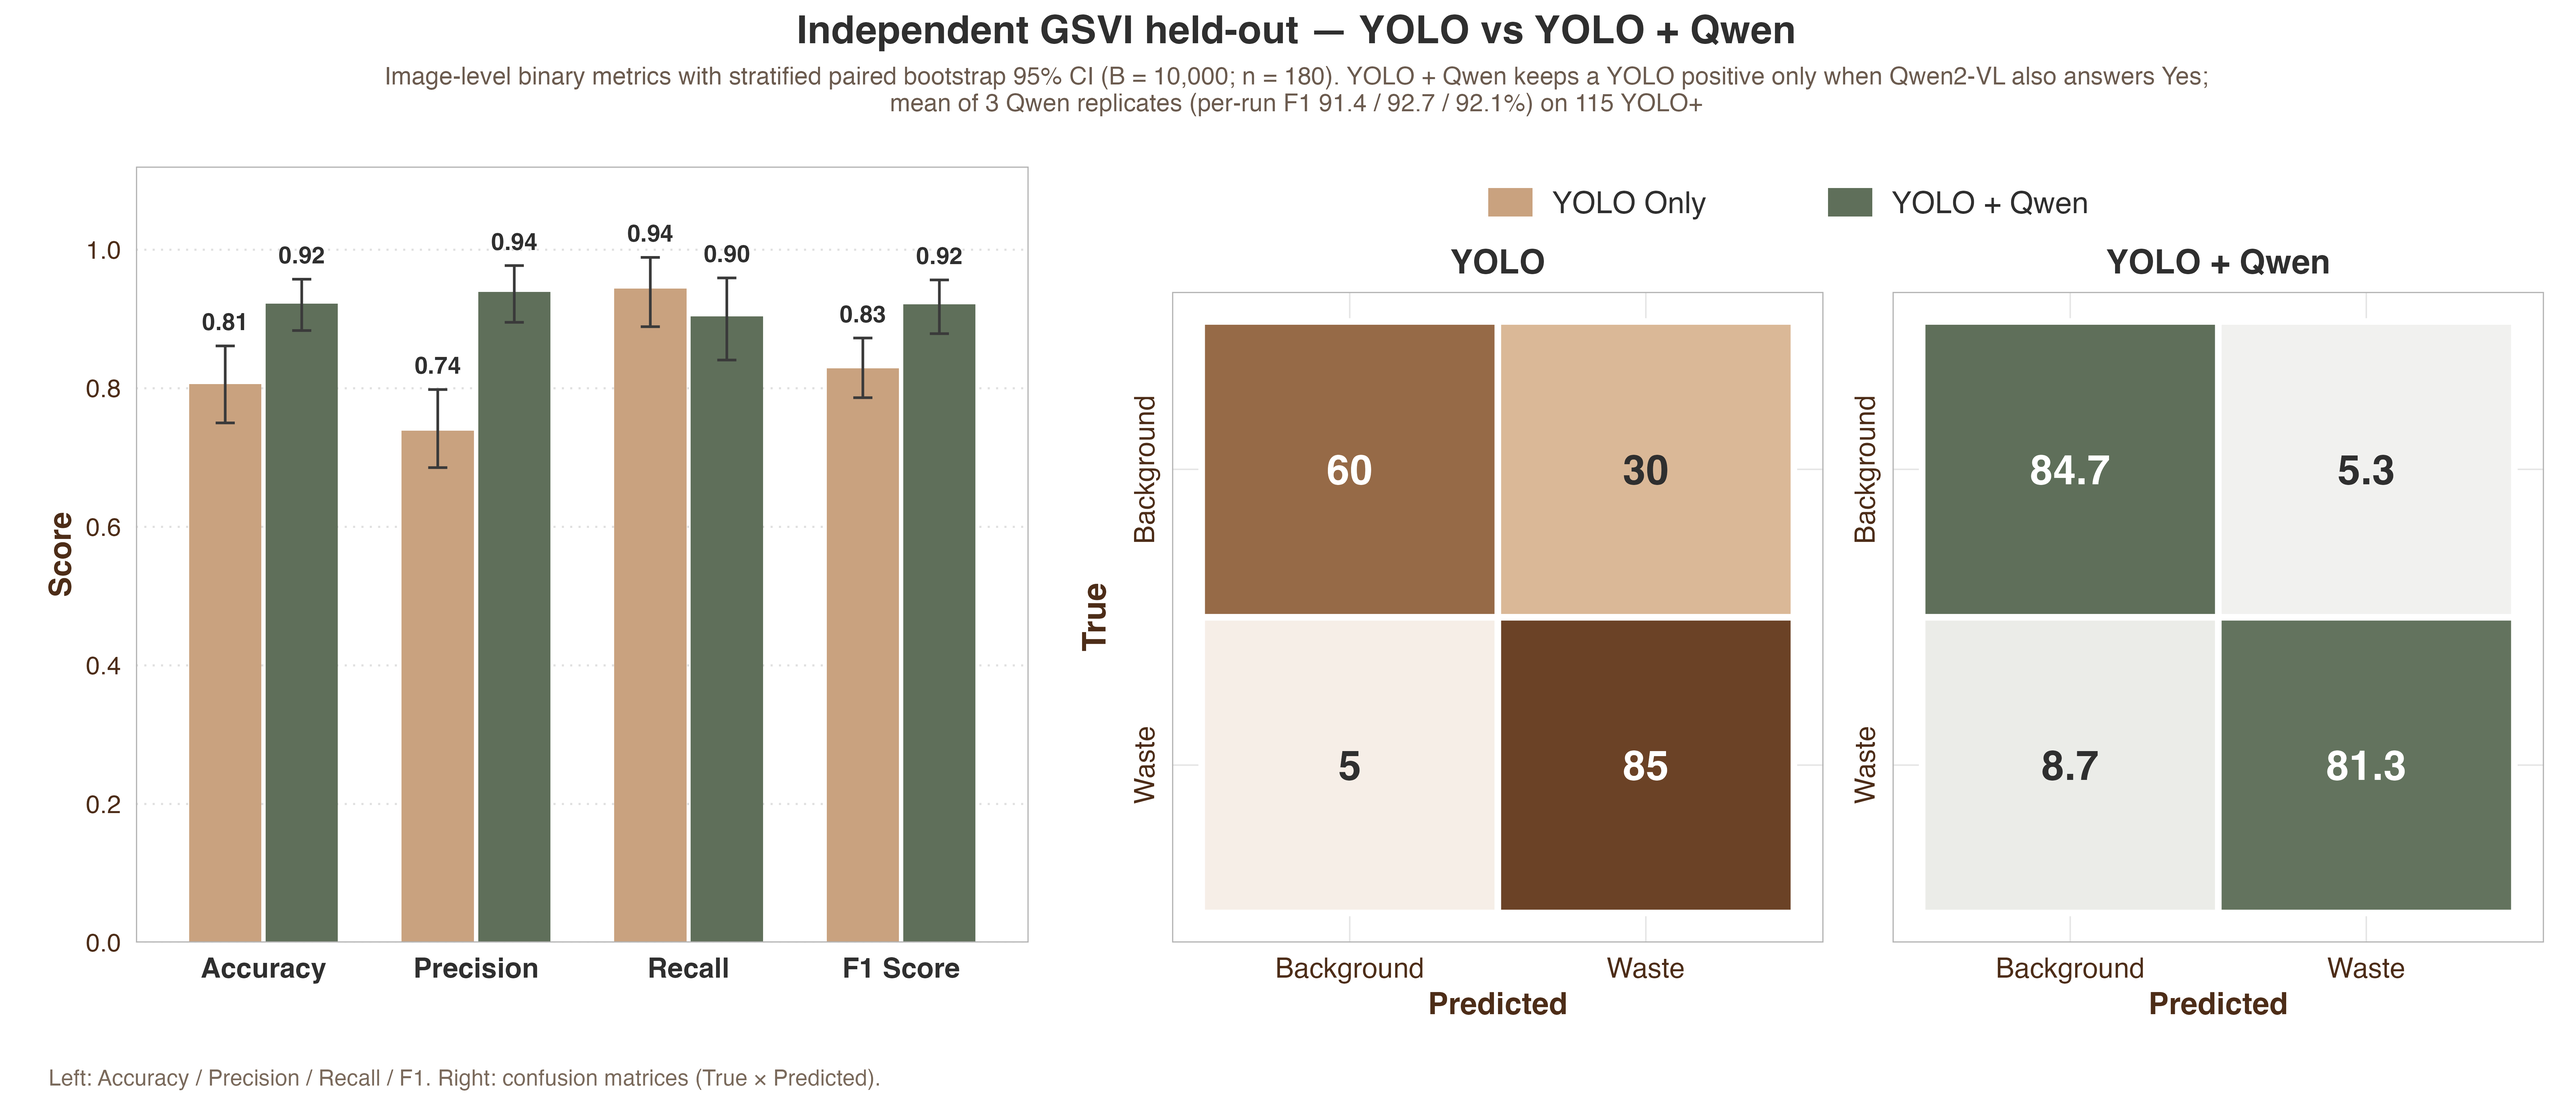
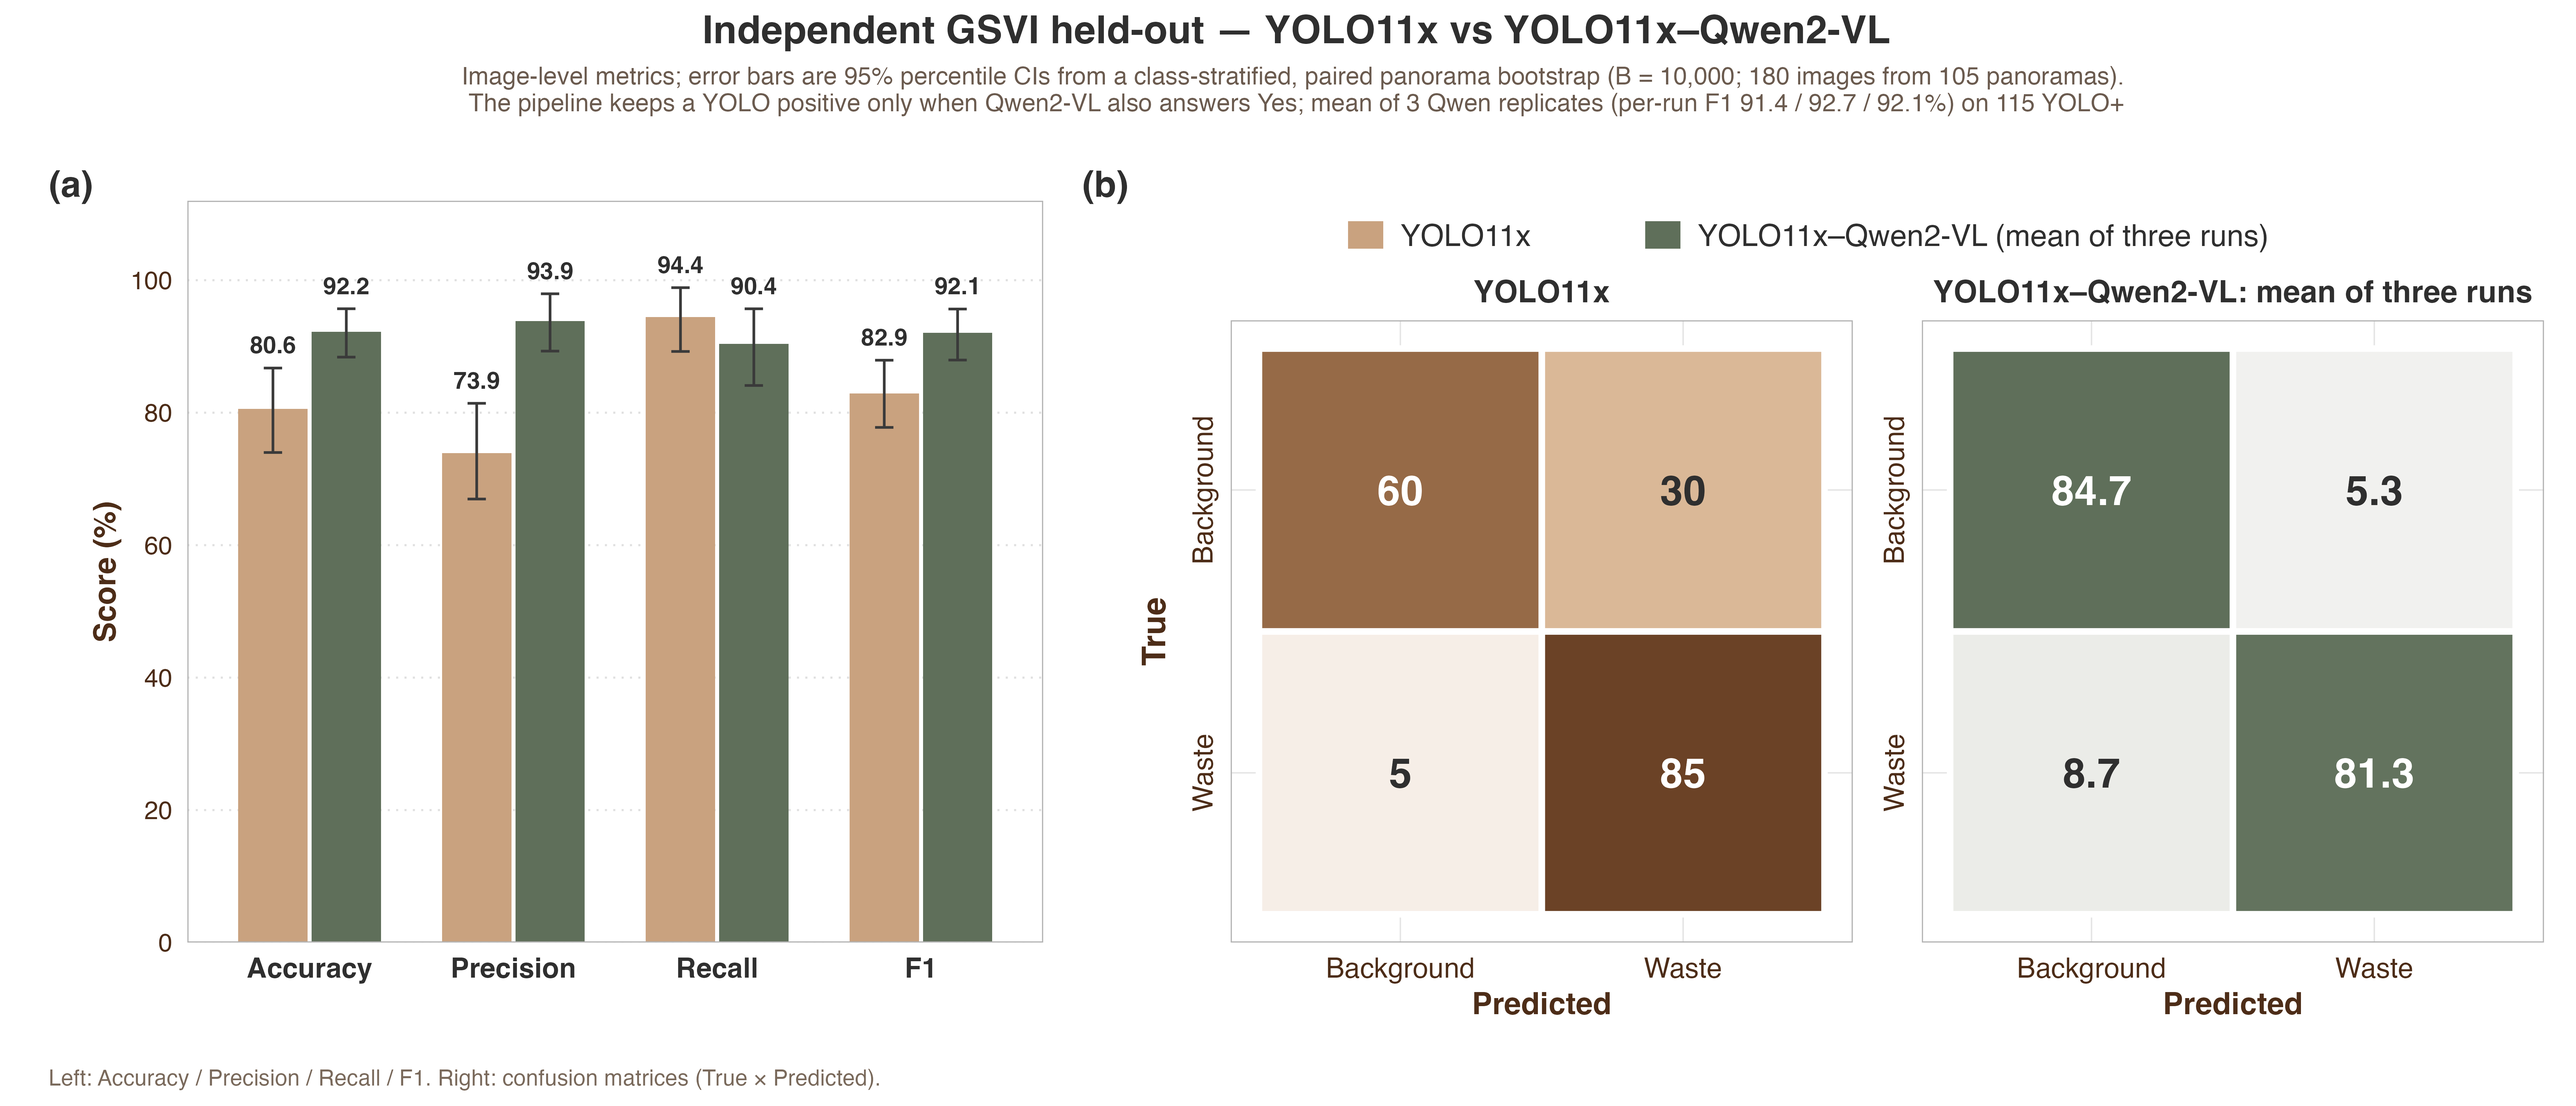
Bootstrap held-out CIs by panorama and align Figure 3 with Table S2
The 180 held-out images come from 105 panoramas, and 75 of those
contribute two views, so images are not independent units. The bootstrap
now resamples panoramas with replacement within class (55 waste,
50 background), and every view of a drawn panorama comes with it. It is
implemented as per-image resampling weights and stays paired across both
stages and all Qwen runs. Point estimates are unchanged; intervals widen
slightly (e.g. YOLO precision 67.0-81.4%, pipeline precision 89.3-98.0%;
recall difference -8.3 to -0.7 pp). The detail table gains unrounded
metric columns and n_panoramas.

Figure 3 now plots the unrounded estimates with the exact asymmetric CI
limits, using one-decimal percent labels and (a)/(b) tags. It names the
models YOLO11x and YOLO11x-Qwen2-VL (mean of three runs), and the
pipeline confusion matrix is titled as the mean of three runs. The
subtitles describe the panorama bootstrap. README numbers are updated
to match.

diff --git a/3_waste_identification/1_heldout_metrics.py b/3_waste_identification/1_heldout_metrics.py
@@ -13,12 +13,13 @@ Headline results (sc_100pct, the full detector):
                       each metric is computed per Qwen replicate and averaged
                       (a single-pass scenario is its one run)
 
-95% intervals: one stratified, paired percentile bootstrap over the test images
-(B = 10,000, fixed seed; waste and background images resampled within class).
-Each resample keeps an image's ground truth, YOLO prediction and every cascade
-run together, and cascade metrics are re-averaged over runs within it. The
-intervals describe image-sampling uncertainty conditional on the observed runs;
-the run range is reported separately. Paired cascade-minus-YOLO differences
+95% intervals: one paired percentile bootstrap over panoramas, the units the
+held-out set was drawn by (B = 10,000, fixed seed; waste and background
+panoramas resampled within class, each bringing all its views). Each resample
+keeps an image's ground truth, YOLO prediction and every cascade run together,
+and cascade metrics are re-averaged over runs within it. The intervals describe
+sampling uncertainty conditional on the observed runs; the run range is
+reported separately. Paired cascade-minus-YOLO differences
 come from the same replicates.
 
 Plus the repeated-inference stability of those replicates, and a sensitivity
@@ -70,7 +71,7 @@ HEADLINE_SCENARIO = "sc_100pct"
 METRICS = ("accuracy", "precision", "recall", "f1")
 BOOT_B = 10_000
 BOOT_SEED = 20261123
-CI_METHOD = f"stratified_paired_percentile_bootstrap_B{BOOT_B}"
+CI_METHOD = f"class_stratified_panorama_paired_percentile_bootstrap_B{BOOT_B}"
 
 UUID_PREFIX = re.compile(r"^[0-9a-f]{8}-", re.I)
 SCENARIO_SHARE = re.compile(r"sc_(\d+)pct", re.I)
@@ -161,44 +162,63 @@ def metrics_from_counts(tp, fp, tn, fn) -> dict[str, np.ndarray]:
 
 
 def stage_metrics(
-    y_true: np.ndarray, preds: np.ndarray, idx: np.ndarray | None = None
+    y_true: np.ndarray, preds: np.ndarray, weights: np.ndarray | None = None
 ) -> tuple[dict[str, np.ndarray], list[dict[str, np.ndarray]]]:
     """Metrics of one stage, computed per run and then averaged over runs.
 
     preds is (n_images, n_runs): one column per run (a single column for YOLO).
-    With idx, an (n_boot, n_images) array of resampled image indices, every
-    value has one entry per bootstrap replicate; the same rows of y_true and
-    of every run are taken together, so the runs stay paired.
+    weights, an (n_boot, n_images) array of how many times each image appears
+    in each bootstrap replicate, gives one value per replicate; the same weights
+    apply to y_true and to every run, so the runs stay paired.
     Returns (run-mean metrics, per-run metrics).
     """
-    y = y_true if idx is None else y_true[idx]
+    w = np.ones(len(y_true)) if weights is None else weights
     runs = []
     for j in range(preds.shape[1]):
-        p = preds[:, j] if idx is None else preds[:, j][idx]
+        p = preds[:, j]
         runs.append(
             metrics_from_counts(
-                ((y == 1) & (p == 1)).sum(axis=-1),
-                ((y == 0) & (p == 1)).sum(axis=-1),
-                ((y == 0) & (p == 0)).sum(axis=-1),
-                ((y == 1) & (p == 0)).sum(axis=-1),
+                (w * ((y_true == 1) & (p == 1))).sum(axis=-1),
+                (w * ((y_true == 0) & (p == 1))).sum(axis=-1),
+                (w * ((y_true == 0) & (p == 0))).sum(axis=-1),
+                (w * ((y_true == 1) & (p == 0))).sum(axis=-1),
             )
         )
     mean = {m: np.mean([r[m] for r in runs], axis=0) for m in METRICS}
     return mean, runs
 
 
-def bootstrap_indices(
-    y_true: np.ndarray, n_boot: int = BOOT_B, seed: int = BOOT_SEED
+def panorama_ids(frame: pd.DataFrame) -> np.ndarray:
+    """Panorama of each image: the img_key without its trailing _<heading>."""
+    return frame["img_key"].str.rsplit("_", n=1).str[0].to_numpy()
+
+
+def bootstrap_weights(
+    y_true: np.ndarray, panoramas: np.ndarray, n_boot: int = BOOT_B, seed: int = BOOT_SEED
 ) -> np.ndarray:
-    """(n_boot, n_images) image indices resampled with replacement within each
-    class, so every replicate keeps the held-out set's waste / background counts
-    (the set is balanced by design)."""
+    """(n_boot, n_images) resampling weights from a panorama-level bootstrap.
+
+    The held-out set was drawn by panorama, and most panoramas contribute two
+    views, so panoramas, not images, are the independent units. Each replicate
+    draws panoramas with replacement within class (every panorama is all-waste
+    or all-background), keeping the number of waste and background panoramas
+    fixed; every view of a drawn panorama comes with it.
+    """
+    codes, _ = pd.factorize(panoramas)
+    n_pan = codes.max() + 1
+    pan_class = np.full(n_pan, -1)
+    for c, y in zip(codes, y_true):
+        if pan_class[c] not in (-1, y):
+            raise ValueError("A held-out panorama mixes waste and background images")
+        pan_class[c] = y
     rng = np.random.default_rng(seed)
-    parts = []
+    pan_counts = np.zeros((n_boot, n_pan))
     for cls in (1, 0):
-        members = np.flatnonzero(y_true == cls)
-        parts.append(rng.choice(members, size=(n_boot, len(members)), replace=True))
-    return np.hstack(parts)
+        members = np.flatnonzero(pan_class == cls)
+        draws = rng.choice(members, size=(n_boot, len(members)), replace=True)
+        for b in range(n_boot):
+            pan_counts[b] += np.bincount(draws[b], minlength=n_pan)
+    return pan_counts[:, codes]
 
 
 def percentile_ci(draws: np.ndarray) -> tuple[float, float]:
@@ -207,12 +227,12 @@ def percentile_ci(draws: np.ndarray) -> tuple[float, float]:
 
 
 def evaluate_stage(
-    y_true: np.ndarray, preds: np.ndarray, idx: np.ndarray
+    y_true: np.ndarray, preds: np.ndarray, weights: np.ndarray
 ) -> tuple[dict[str, float], dict[str, np.ndarray]]:
     """Point metrics (mean of per-run values), their bootstrap 95% intervals and
     the run range, plus the bootstrap draws (for paired differences)."""
     point, runs = stage_metrics(y_true, preds)
-    draws, _ = stage_metrics(y_true, preds, idx)
+    draws, _ = stage_metrics(y_true, preds, weights)
     out: dict[str, float] = {}
     for m in METRICS:
         out[m] = float(point[m])
@@ -448,6 +468,7 @@ def headline_stages(
         {
             "stage": "YOLO candidate stage",
             "y_true": y_true,
+            "panoramas": panorama_ids(frame),
             "preds": yolo.reshape(-1, 1),
             **{k: yolo_m[k] for k in ("tp", "fp", "tn", "fn")},
             "note": f"Image-level prediction, {headline} ({PREDICTIONS_NAME})",
@@ -470,6 +491,7 @@ def headline_stages(
         {
             "stage": "YOLO → Qwen",
             "y_true": y_true,
+            "panoramas": panorama_ids(frame),
             "preds": pipe_preds,
             **mean_counts(runs),
             "note": (
@@ -485,10 +507,10 @@ def write_main_heldout_tables(stages: list[dict]) -> None:
     """table_2 — display, CI, detail and paired-difference views of the headline
     comparison.
 
-    95% intervals are percentile intervals from one stratified, paired bootstrap
-    over test images (bootstrap_indices): every stage and every Qwen run is
-    scored on the same resampled images, and cascade metrics are averaged over
-    runs within each replicate. They describe image-sampling uncertainty
+    95% intervals are percentile intervals from one class-stratified, paired
+    panorama bootstrap (bootstrap_weights): every stage and every Qwen run is
+    scored on the same resampled panoramas, and cascade metrics are averaged
+    over runs within each replicate. They describe sampling uncertainty
     conditional on the observed runs, not run-to-run variation, which is
     reported separately as the run range.
     """
@@ -498,14 +520,14 @@ def write_main_heldout_tables(stages: list[dict]) -> None:
     draws_by_stage: dict[str, dict[str, np.ndarray]] = {}
     point_by_stage: dict[str, dict[str, float]] = {}
 
-    idx = bootstrap_indices(stages[0]["y_true"])
+    weights = bootstrap_weights(stages[0]["y_true"], stages[0]["panoramas"])
     n_images = len(stages[0]["y_true"])
     n_pos = int(stages[0]["y_true"].sum())
 
     for st in stages:
         if not np.array_equal(st["y_true"], stages[0]["y_true"]):
             raise ValueError("Stages must be scored on the same images in the same order")
-        ci, draws = evaluate_stage(st["y_true"], st["preds"], idx)
+        ci, draws = evaluate_stage(st["y_true"], st["preds"], weights)
         draws_by_stage[st["stage"]] = draws
         point_by_stage[st["stage"]] = ci
         detail_rows.append(
@@ -514,8 +536,10 @@ def write_main_heldout_tables(stages: list[dict]) -> None:
                 "stage": st["stage"],
                 "n_images": n_images,
                 "n_waste": n_pos,
+                "n_panoramas": int(pd.unique(stages[0]["panoramas"]).size),
                 "n_runs": int(st["preds"].shape[1]),
                 **{f"{m}_pct": round(100 * ci[m], 1) for m in METRICS},
+                **{m: ci[m] for m in METRICS},
                 "tp": round(st["tp"], 2),
                 "fp": round(st["fp"], 2),
                 "tn": round(st["tn"], 2),
@@ -567,8 +591,8 @@ def write_main_heldout_tables(stages: list[dict]) -> None:
     ci_text = ",".join(header) + "\n" + "\n".join(",".join(row) for row in ci_rows) + "\n"
 
     print(
-        "\nMain held-out comparison (Qwen = mean of per-run metrics; stratified "
-        f"paired percentile bootstrap 95% CI, B = {BOOT_B}):"
+        "\nMain held-out comparison (Qwen = mean of per-run metrics; class-stratified "
+        f"paired panorama bootstrap 95% CI, B = {BOOT_B}):"
     )
     print(pd.DataFrame(ci_rows, columns=header).to_string(index=False))
     write_csv(pd.DataFrame(display_rows), "table_2_yolo_qwen_heldout.csv")
@@ -786,7 +810,7 @@ def write_sc_sensitivity_table(
         n_fp_images = int(sum((y_true == 0) & (yolo == 1)))
         fp_csv = fp_csv_path(scenario)
 
-        idx = bootstrap_indices(y_true)
+        weights = bootstrap_weights(y_true, panorama_ids(frame))
         variants: list[tuple[str, np.ndarray, dict[str, float], str]] = [
             (
                 "YOLO only",
@@ -818,7 +842,7 @@ def write_sc_sensitivity_table(
             )
 
         for stage, stage_preds, m, note in variants:
-            ci, _ = evaluate_stage(y_true, stage_preds, idx)
+            ci, _ = evaluate_stage(y_true, stage_preds, weights)
             display_rows.append(
                 {
                     "YOLO training set": scenario_label(scenario),

diff --git a/README.md b/README.md
@@ -455,10 +455,10 @@ Start with `--dry-run` (reports the call count, makes none), then `--limit 3` as
 
 | Independent GSVI test | Accuracy | Precision | Recall | F1 |
 | --- | --- | --- | --- | --- |
-| YOLO only | 80.6% (75.0–86.1) | 73.9% (68.5–79.8) | 94.4% (88.9–98.9) | 82.9% (78.6–87.3) |
-| YOLO → Qwen (mean of 3 Qwen runs) | 92.2% (88.3–95.7) | 93.9% (89.5–97.7) | 90.4% (84.1–95.9) | 92.1% (87.9–95.6) |
+| YOLO only | 80.6% (74.0–86.7) | 73.9% (67.0–81.4) | 94.4% (89.2–98.9) | 82.9% (77.8–87.9) |
+| YOLO → Qwen (mean of 3 Qwen runs) | 92.2% (88.4–95.7) | 93.9% (89.3–98.0) | 90.4% (84.1–95.7) | 92.1% (87.9–95.7) |
 
-Headline scenario `sc_100pct`, n = 180 (90 waste, 90 background). 95% CIs are percentile intervals from one stratified, paired bootstrap over test images (B = 10,000, fixed seed; resampled within class; each image's ground truth, YOLO prediction and all three cascade runs kept together; cascade metrics re-averaged over runs in each replicate) — image-sampling uncertainty conditional on the observed runs (`table_2_yolo_qwen_heldout_ci.csv`). On average over the three Qwen runs, the VLM pass removes 24.7 of 30 YOLO false positives at the cost of 3.7 true positives. Paired differences, cascade − YOLO, from the same replicates (`table_2_yolo_qwen_heldout_diff.csv`): accuracy +11.7 pp (6.9 to 16.5), precision +19.9 pp (14.4 to 25.5), F1 +9.1 pp (5.1 to 12.9), recall −4.1 pp (−8.1 to −0.7) — a precision gain bought with a small recall loss. Run-to-run range, reported separately: F1 91.4–92.7%.
+Headline scenario `sc_100pct`, n = 180 images (90 waste, 90 background) from 105 panoramas, 75 of which contribute two views. 95% CIs are percentile intervals from one class-stratified, paired panorama bootstrap (B = 10,000, fixed seed; the 55 waste and 50 background panoramas resampled within class, each bringing all its views; each image's ground truth, YOLO prediction and all three cascade runs kept together; cascade metrics re-averaged over runs in each replicate) — sampling uncertainty conditional on the observed runs (`table_2_yolo_qwen_heldout_ci.csv`). On average over the three Qwen runs, the VLM pass removes 24.7 of 30 YOLO false positives at the cost of 3.7 true positives. Paired differences, cascade − YOLO, from the same replicates (`table_2_yolo_qwen_heldout_diff.csv`): accuracy +11.7 pp (5.9 to 17.7), precision +19.9 pp (12.8 to 26.7), F1 +9.1 pp (4.5 to 13.8), recall −4.1 pp (−8.3 to −0.7) — a precision gain bought with a small recall loss. Run-to-run range, reported separately: F1 91.4–92.7%.
 
 **Sensitivity to the SC share of the YOLO training set** (`table_1_yolo_detection.csv` box level, `table_4_sc_sensitivity.csv` image level). Computed here because it is one pass over all scenarios; **read and plotted in [Step 6.2](#62--the-sc-training-mix-2_identification)**:
 
